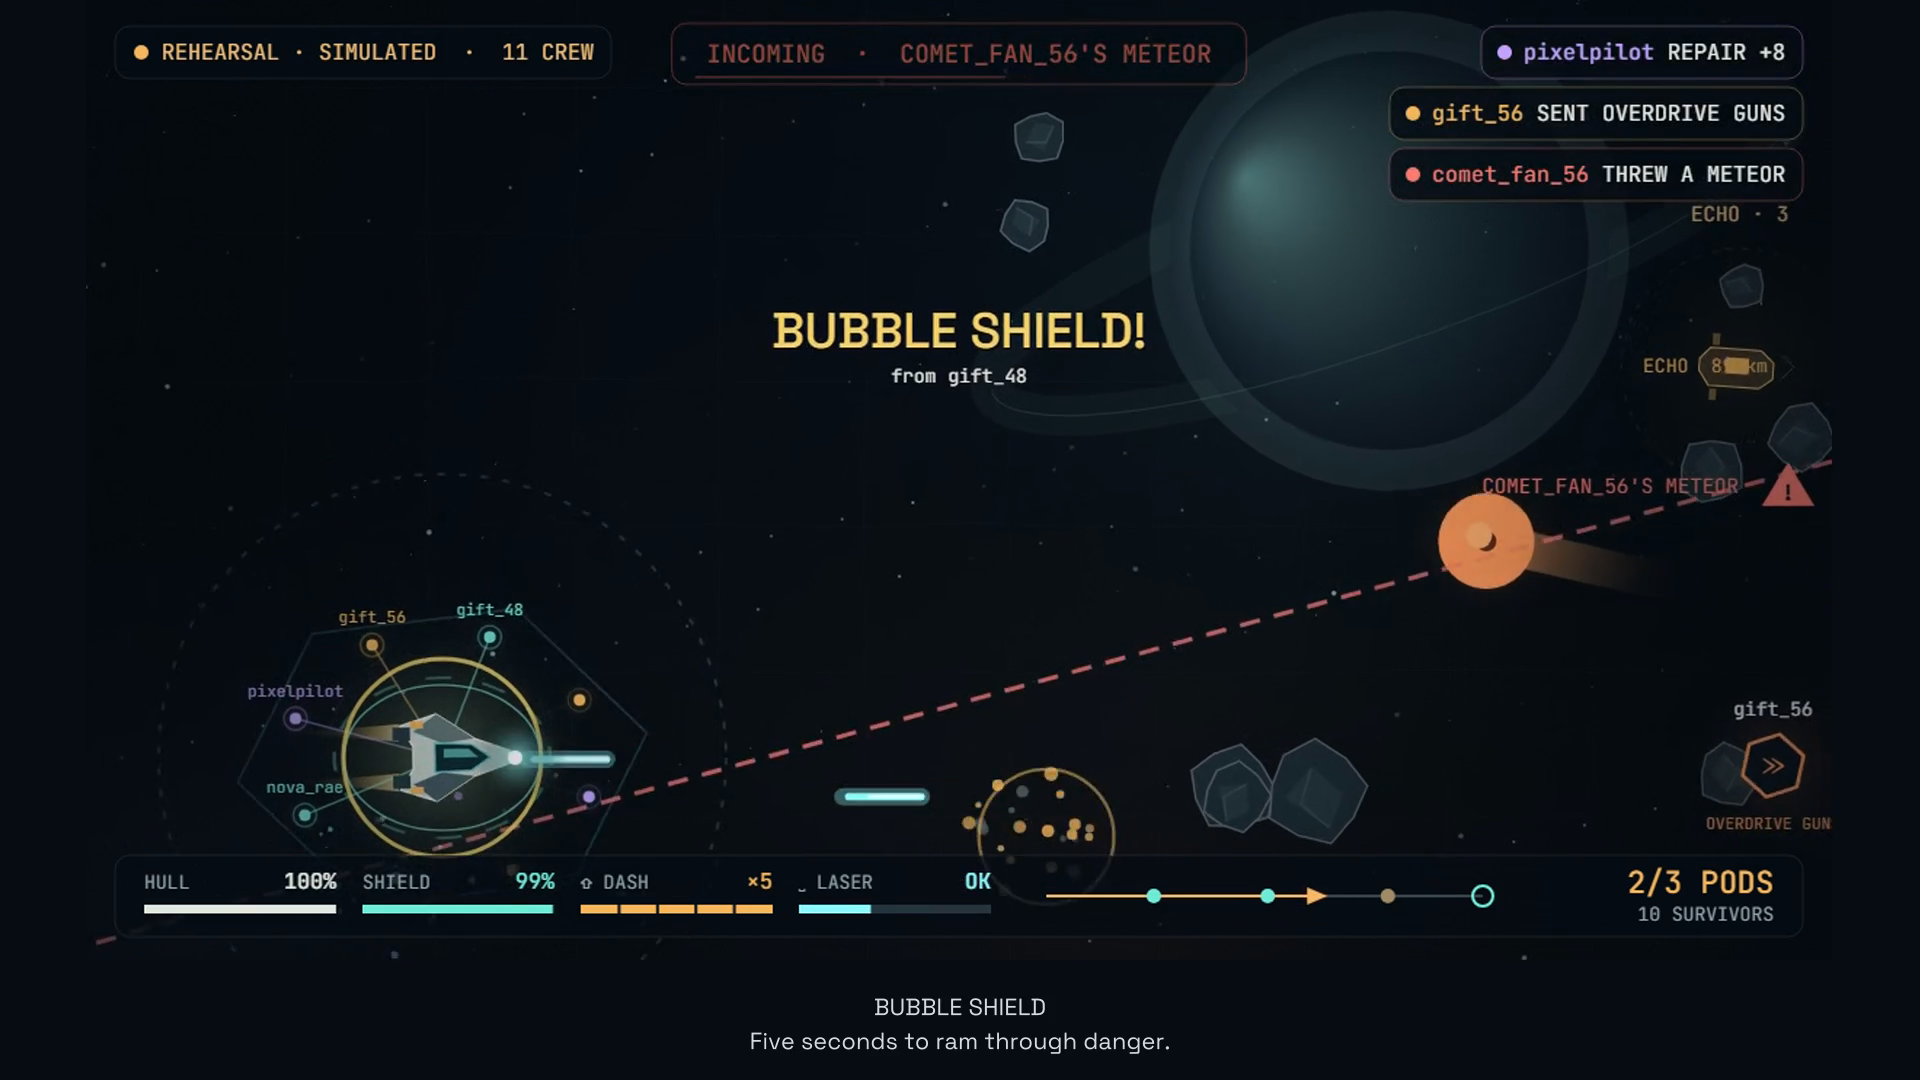
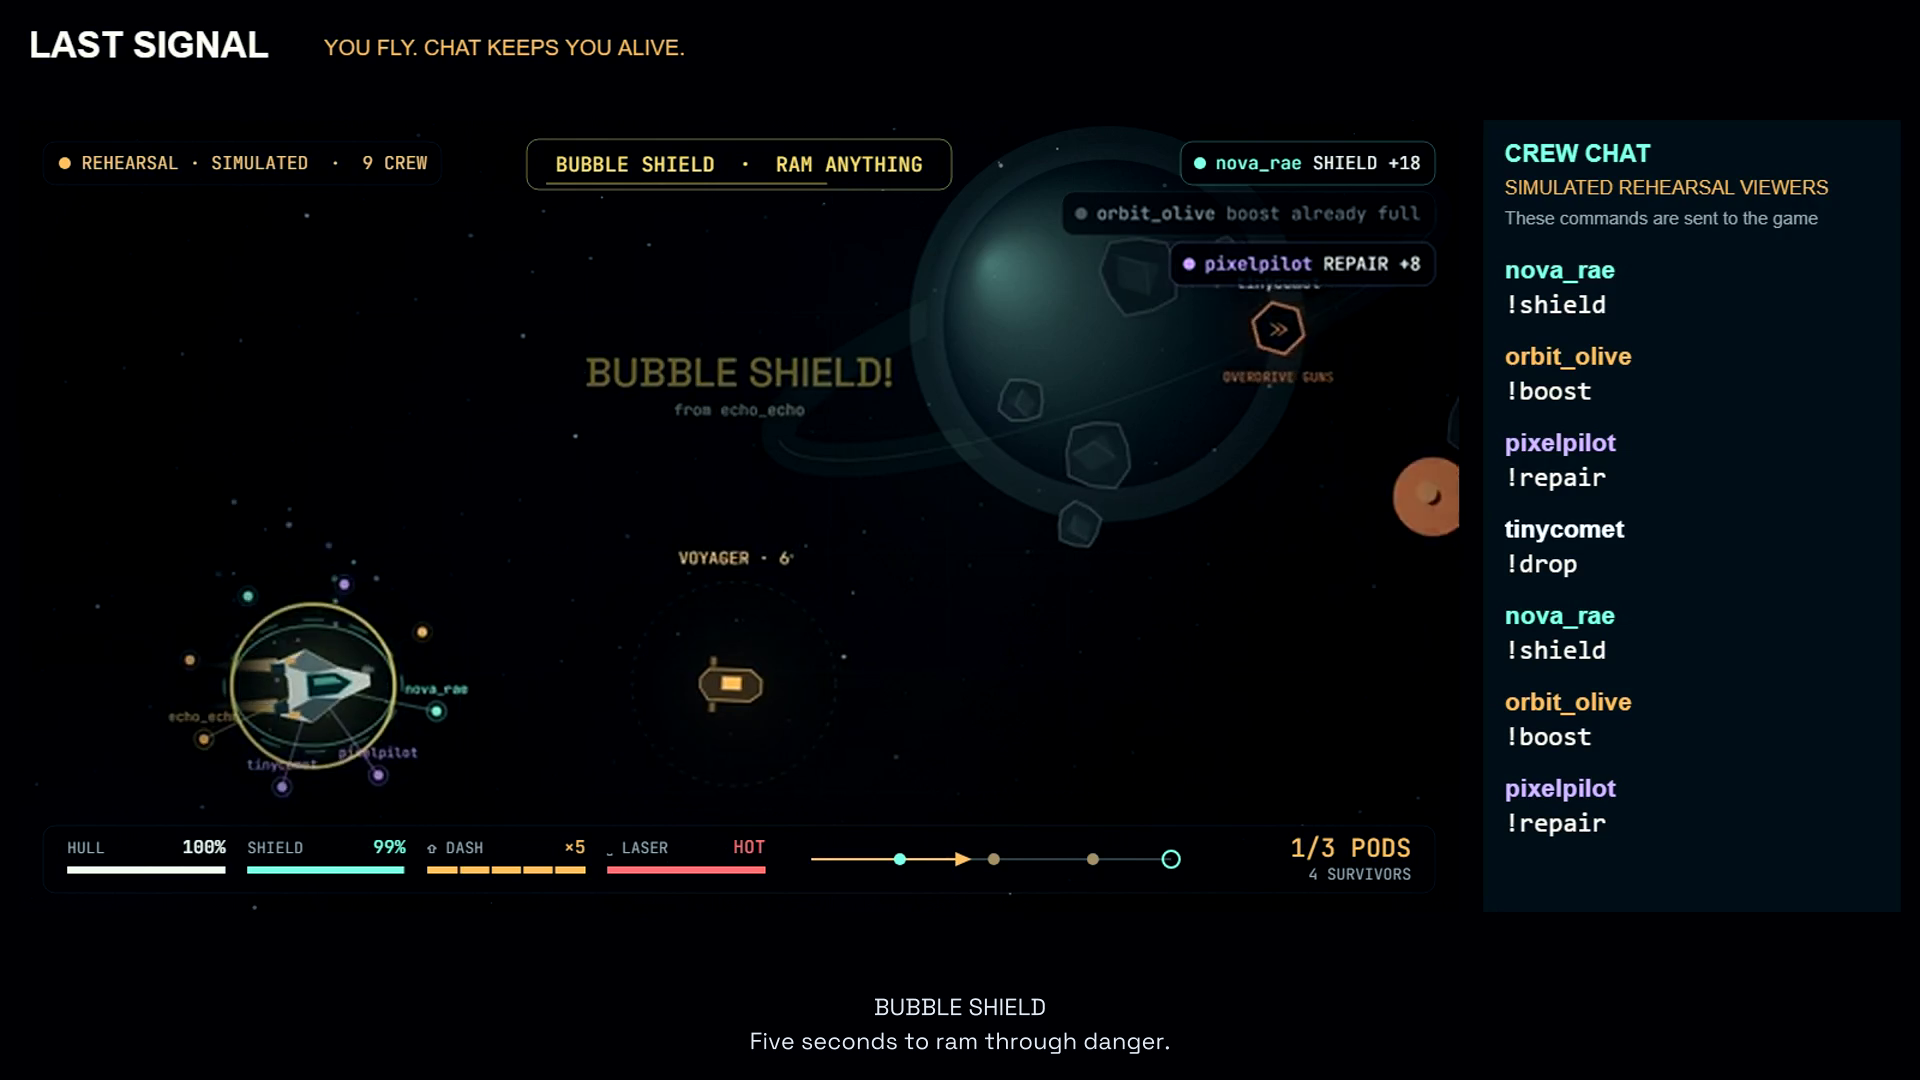
Finalize 60 fps demos with sharp chat, live evidence and synchronized audio

diff --git a/docs/DEMO_SCRIPT.md b/docs/DEMO_SCRIPT.md
@@ -7,7 +7,7 @@ Two 1080p H.264/AAC exports are available in the GitHub release:
 
 Both run for approximately 2:18. Captions occupy a separate lower band, keeping the flight HUD visible. Music ducks under narration in the voiceover version. The gameplay is continuous, followed by the result card from the same mission. The recording rescued all 13 survivors and shows nova bomb, bubble shield and overdrive guns being caught and fired, plus laser fire, dashes, named meteors and ALL HANDS.
 
-The footage uses labeled simulated chat and automated keyboard control with the built-in training pilot disabled. It is a capture of the actual game and its Web Audio output, not a rendered or scripted game outcome. No live viewer-message claim is made for this recording.
+The footage uses labeled simulated chat and automated keyboard control with the built-in training pilot disabled. It is a capture of the actual game and its Web Audio output, not a rendered or scripted game outcome. The separate live section shows actual commands received from Twitch and a confirmed connection with four real messages.
 
 ## Reproduce the recording and exports
 

diff --git a/docs/GALLERY.md b/docs/GALLERY.md
@@ -17,6 +17,7 @@ Use the assets from the v1.0.0 GitHub release. The gallery ZIP contains fresh sc
 | 9 | `screen-broadcast.png` | OBS follows the same authoritative mission, with crew names and the rehearsal source label visible. |
 | 10 | `screen-result.png` | Three pods, 13 survivors, and credits for the crew who brought them home. |
 | 11 | `screen-live-connected.png` | Connected to actual Twitch IRC, with four real chat messages received. Live join, boost, drop and meteor were accepted. |
+| 12 | `screen-live-chat.png` | Actual Twitch viewer anashk999 sends join, boost, drop and meteor; the game accepts all four and catches the named crate. |
 
 ## Project title
 

diff --git a/docs/VALIDATION.md b/docs/VALIDATION.md
@@ -1,5 +1,7 @@
 # Validation record
 
+Latest live verification: at 19:11 UTC, viewer `anashk999` sent join, boost, drop and meteor in `#anashk123`; all four were accepted by the live game, and the named bubble-shield crate was caught. The revised videos show these actual messages and the four-message connection confirmation. See the real Twitch recording section below for details.
+
 ## Final submission verification (2026-11-02)
 
 Windows, Node.js 24.22.2, Chromium 156 (Playwright 1.64.1), isolated server on port 3302. The existing server on port 3001 was left untouched.
